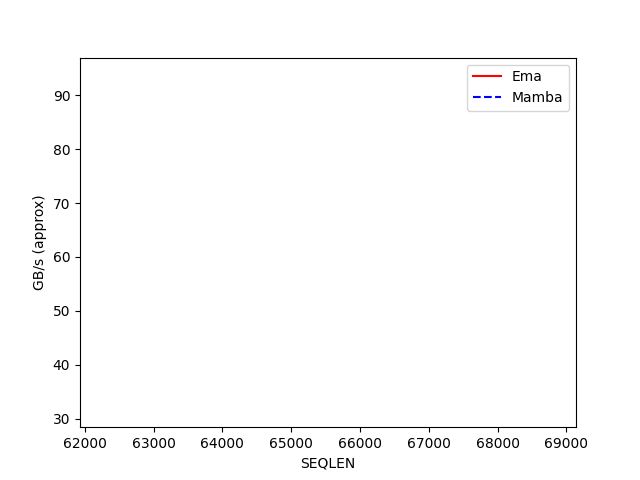
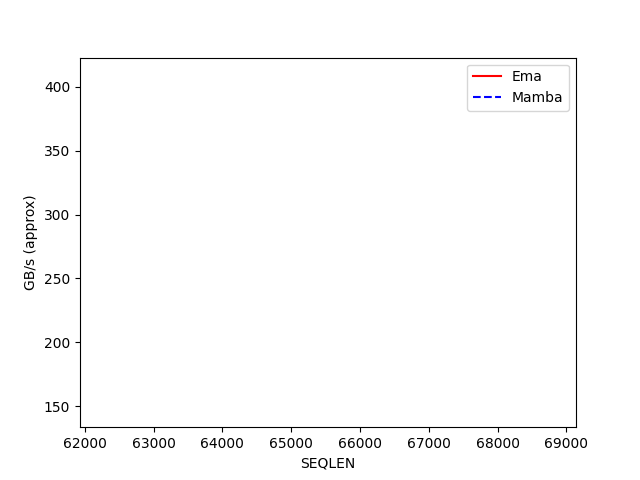
Add H100 Bebnchmark Plots and code to add sub-dir according to GPU type

diff --git a/kernels/benchmarks/outputs_ema_scan/H100_80GB_HBM3/results.html b/kernels/benchmarks/outputs_ema_scan/H100_80GB_HBM3/results.html
@@ -1,0 +1,3 @@
+<html><body>
+<image src="ema_b16_head_dim1024_nh2_chunk128.bench.png"/>
+</body></html>

diff --git a/kernels/benchmarks/ema_bench.py b/kernels/benchmarks/ema_bench.py
@@ -2,20 +2,44 @@ import torch
 import triton
 import triton.testing
 import numpy as np
+import os
+
 from kernels.ema import ema_scan_combined
 from kernels.ema_combined import ema_chunk_scan_combined
-
 from mamba_ssm.ops.triton.ssd_combined import mamba_chunk_scan_combined
 from einops import rearrange, repeat
 from kernels.ema_kernels.ema_combined_fwd import ema_matmul_scan_combined
 
+# ============================================================
+#                 GPU-AWARE DIRECTORY SETUP
+# ============================================================
+def get_gpu_name():
+    if torch.cuda.is_available():
+        name = torch.cuda.get_device_name(0)
+        # clean filesystem name
+        for token in ["NVIDIA", "GeForce", "RTX", "PCIe", "GPU"]:
+            name = name.replace(token, "")
+        return name.strip().replace(" ", "_")
+    return "CPU"
 
-MAMBA_NUM_HEADS = 2 # 2 heads
+GPU_NAME = get_gpu_name()
+GPU_BENCH_DIR = f"./kernels/benchmarks/outputs_ema_scan/{GPU_NAME}"
+GPU_RAW_DIR = f"./bench_dump/{GPU_NAME}"
+
+os.makedirs(GPU_BENCH_DIR, exist_ok=True)
+os.makedirs(GPU_RAW_DIR, exist_ok=True)
+
+print(f"[INFO] Running on GPU = {GPU_NAME}")
+print(f"[INFO] Saving benchmark graphs to: {GPU_BENCH_DIR}")
+print(f"[INFO] Saving raw throughput logs to: {GPU_RAW_DIR}")
+
+# ============================================================
+
+MAMBA_NUM_HEADS = 2
 MAMBA_CHUNK_SIZE = 128
 
-def ema_simple(X, P):
 
-    # log space implementation of EMA in torch (otherwise floating point issues and nan)
+def ema_simple(X, P):
     alpha_clamped = 1 - P
     log_alpha = torch.log(alpha_clamped)
     logC = torch.cumsum(log_alpha, dim=1)
@@ -23,8 +47,8 @@ def ema_simple(X, P):
     weighted = (P * X) * invC
     S = torch.cumsum(weighted, dim=1)
     Z = torch.exp(logC) * S
-
     return Z
+
 
 def ema_loop(X, P):
     B, T, D = X.shape
@@ -40,35 +64,35 @@ def ema_loop(X, P):
     return Z
 
 
-
 bench_configs = []
 for head_dim in [1024]:
     for batch_size in [16]:
-         for chunk_size in [128]:
-                bench_configs.append(
-                    triton.testing.Benchmark(
-                        x_names=["SEQLEN"],
-                        x_vals=[2**i for i in range(13, 17)],  
-                        line_arg="provider",
-                        line_vals=["triton_matmul", "triton_prefix", "ema_mamba", "mamba"],
-                        line_names=["Triton_matmul", "Triton Prefix", "Ema_mamba", "Mamba"],
-                        styles=[("purple", "-"),("red", "-"), ("yellow", "-"), ("green", "--")],
-                        ylabel="GB/s (approx)",
-                        plot_name=f"ema_b{batch_size}_head_dim{head_dim}_nh{MAMBA_NUM_HEADS}_chunk_size{chunk_size}.bench",
-                        args={
-                            "BATCH": batch_size,
-                            "HEAD_DIM": head_dim,
-                            "MAMBA_HEAD_DIM": head_dim / MAMBA_NUM_HEADS, # use 2 heads
-                            "MAMBA_CHUNK_SIZE": chunk_size,
-                            "device": "cuda",
-                            
-                        },
-                    )
+        for chunk_size in [128]:
+            bench_configs.append(
+                triton.testing.Benchmark(
+                    x_names=["SEQLEN"],
+                    x_vals=[2 ** i for i in range(13, 17)],
+                    line_arg="provider",
+                    line_vals=["triton_matmul", "triton_prefix", "ema_mamba", "mamba"],
+                    line_names=["Triton_matmul", "Triton Prefix", "Ema_mamba", "Mamba"],
+                    styles=[("purple", "-"), ("red", "-"), ("yellow", "-"), ("green", "--")],
+                    ylabel="GB/s (approx)",
+                    plot_name=f"ema_b{batch_size}_head_dim{head_dim}_nh{MAMBA_NUM_HEADS}_chunk{chunk_size}.bench",
+                    args={
+                        "BATCH": batch_size,
+                        "HEAD_DIM": head_dim,
+                        "MAMBA_HEAD_DIM": head_dim / MAMBA_NUM_HEADS,
+                        "MAMBA_CHUNK_SIZE": chunk_size,
+                        "device": "cuda",
+                    },
                 )
+            )
 
 
 @triton.testing.perf_report(bench_configs)
-def bench_ema(BATCH, SEQLEN, HEAD_DIM, MAMBA_HEAD_DIM, MAMBA_CHUNK_SIZE, provider, device):
+def bench_ema(BATCH, SEQLEN, HEAD_DIM, MAMBA_HEAD_DIM,
+              MAMBA_CHUNK_SIZE, provider, device):
+
     dtype = torch.float32
     x = torch.randn((BATCH, SEQLEN, HEAD_DIM), dtype=dtype, device=device)
     p = torch.sigmoid(torch.randn((BATCH, SEQLEN, 1), dtype=dtype, device=device))
@@ -76,6 +100,7 @@ def bench_ema(BATCH, SEQLEN, HEAD_DIM, MAMBA_HEAD_DIM, MAMBA_CHUNK_SIZE, provide
     if provider == "triton_prefix":
         fn = lambda: ema_scan_combined(x, p)
         ms = triton.testing.do_bench_cudagraph(fn)
+
     elif provider == "ema_mamba":
         dt = -torch.log(1 - p).to(torch.float32).squeeze(-1)
         X_beta = x / dt[..., None]
@@ -85,8 +110,12 @@ def bench_ema(BATCH, SEQLEN, HEAD_DIM, MAMBA_HEAD_DIM, MAMBA_CHUNK_SIZE, provide
         B_m = rearrange(p.to(torch.float32), "b l 1 -> b l 1 1")
         C_m = torch.ones_like(B_m)
         fn = lambda: ema_chunk_scan_combined(
-            X_m, dt, A, B_m, C_m, chunk_size=MAMBA_CHUNK_SIZE, seq_idx=None)
+            X_m, dt, A, B_m, C_m,
+            chunk_size=MAMBA_CHUNK_SIZE,
+            seq_idx=None
+        )
         ms = triton.testing.do_bench_cudagraph(fn)
+
     elif provider == "mamba":
         dt = -torch.log(1 - p).to(torch.float32).squeeze(-1)
         X_beta = x / dt[..., None]
@@ -96,46 +125,54 @@ def bench_ema(BATCH, SEQLEN, HEAD_DIM, MAMBA_HEAD_DIM, MAMBA_CHUNK_SIZE, provide
         B_m = rearrange(p.to(torch.float32), "b l 1 -> b l 1 1")
         C_m = torch.ones_like(B_m)
         fn = lambda: mamba_chunk_scan_combined(
-            X_m, dt, A, B_m, C_m, chunk_size=MAMBA_CHUNK_SIZE, seq_idx=None)
-        ms = triton.testing.do_bench(fn)
-    elif provider == "triton_matmul":
-        A_ema = torch.log(1 - p).squeeze(-1) # the final dimension
-        X_ema = x * p # broadcast
-        fn = lambda : ema_matmul_scan_combined(
-            A_ema, X_ema, chunk_size=MAMBA_CHUNK_SIZE
+            X_m, dt, A, B_m, C_m,
+            chunk_size=MAMBA_CHUNK_SIZE,
+            seq_idx=None
         )
+        ms = triton.testing.do_bench(fn)
+
+    elif provider == "triton_matmul":
+        A_ema = torch.log(1 - p).squeeze(-1)
+        X_ema = x * p
+        fn = lambda: ema_matmul_scan_combined(A_ema, X_ema, chunk_size=MAMBA_CHUNK_SIZE)
         ms = triton.testing.do_bench_cudagraph(fn)
-        pass
 
+    # --- Throughput calculation ---
+    bytes_moved = x.numel() * x.element_size()
+    bytes_moved += x.numel() * x.element_size()
+    bytes_moved += p.numel() * p.element_size()
 
-    # Rough throughput: bytes processed per second
-    bytes_moved = x.numel() * x.element_size()    # read X
-    bytes_moved += x.numel() * x.element_size()   # write Z
-    bytes_moved += p.numel() * p.element_size()  # read P
-    gbps = bytes_moved / (ms * 1e-3) / 1e9 # type: ignore 
+    gbps = bytes_moved / (ms * 1e-3) / 1e9
 
-    plot_name = f"./bench_dump/raw_{str(True)}_time_{str(True)}_ema_b{BATCH}_chunk_size{chunk_size}_head_dim{head_dim}_nh{MAMBA_NUM_HEADS}.bench"
-    with open(plot_name, "a+") as f :
-        f.write("\n ========================== FINAL ============================= \n")
-        f.write(f"[{provider}] ms={ms:.3f}  bytes_moved={bytes_moved/1e6:.3f} MB  GBps={gbps:.6f} \n")
-        pass
+    # --- Write raw benchmark log to GPU-specific folder ---
+    plot_name = (
+        f"{GPU_RAW_DIR}/raw_{provider}_b{BATCH}_seq{SEQLEN}"
+        f"_chunk{MAMBA_CHUNK_SIZE}_h{HEAD_DIM}_nh{MAMBA_NUM_HEADS}.bench"
+    )
+
+    with open(plot_name, "a+") as f:
+        f.write("\n================= BENCHMARK RESULT =================\n")
+        f.write(f"[{provider}]   ms={ms:.3f}   GB/s={gbps:.4f}\n")
+        f.write(f"bytes moved = {bytes_moved/1e6:.3f} MB\n")
 
     return gbps
 
 
 if __name__ == "__main__":
-    bench_ema.run(print_data=True, save_path="./kernels/benchmarks/outputs_ema_scan")
+    bench_ema.run(
+        print_data=True,
+        save_path=GPU_BENCH_DIR,  # GPU-specific directory
+    )
 
-    
+    # ---- Dump Triton autotune configs ----
     def print_triton_autotune_configs(kernel, kernel_name="kernel"):
-        """Print or dump the best autotune configs for a Triton kernel."""
         if not hasattr(kernel, "autotune"):
             print(f"[{kernel_name}] No autotuner attached.")
             return
 
         cache = getattr(kernel.autotune, "_cache", None)
         if not cache:
-            print(f"[{kernel_name}] No autotune results cached yet (kernel not run?).")
+            print(f"[{kernel_name}] No autotune results cached yet.")
             return
 
         print(f"\n[{kernel_name}] ---- Optimal Triton autotune configs ----")
@@ -145,10 +182,6 @@ if __name__ == "__main__":
             print(f"  num_stages  = {cfg.num_stages}")
             print(f"  kwargs      = {cfg.kwargs}")
             print("----------------------------------------------------")
-    
-        print_triton_autotune_configs(ema_matmul_scan_combined, "ema_matmul_scan_combined")
-        print_triton_autotune_configs(ema_chunk_scan_combined, "ema_chunk_scan_combined")
 
-
-    
-    
+    print_triton_autotune_configs(ema_matmul_scan_combined, "ema_matmul_scan_combined")
+    print_triton_autotune_configs(ema_chunk_scan_combined, "ema_chunk_scan_combined")
